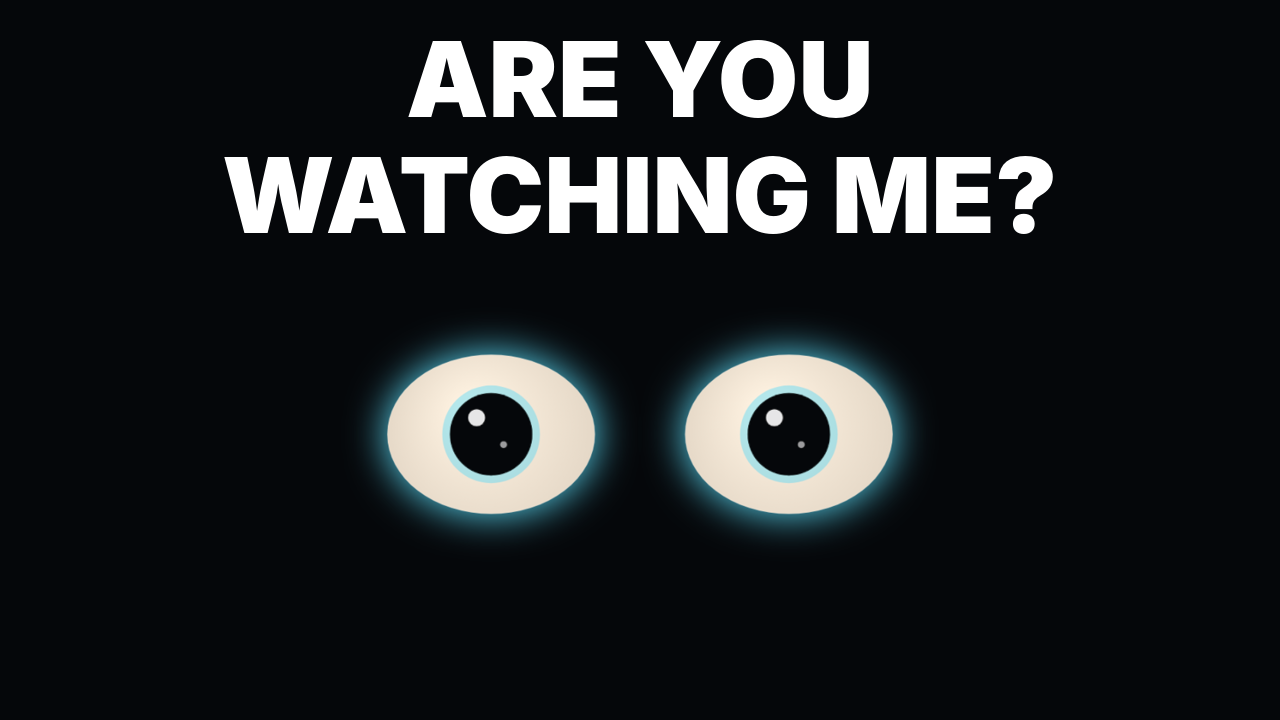
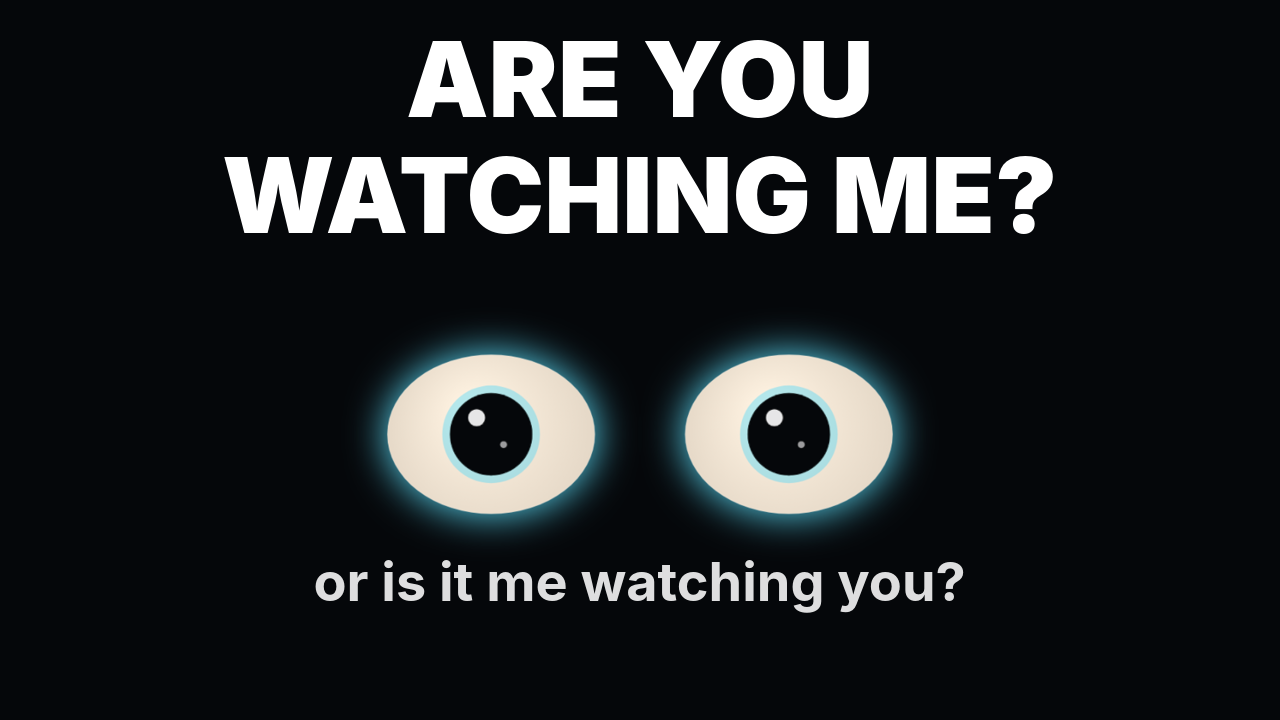
Dot film: second line on thumbnail 1, vertical thumbnail for the Short
Claude-Session: https://claude.ai/code/session_01D9G31rEphcSjh2oZPEPjty

Changed region(s): [[0.25, 0.7639, 0.75, 0.8556]]

diff --git a/marketing-assets/youtube/dot/README.md b/marketing-assets/youtube/dot/README.md
@@ -14,7 +14,8 @@ copies inside the bubbles; voice is Zelda (v3) with emotion; the end-card logo i
 |---|---|
 | `dot-film-1920x1080.mp4` | The film, 1:28, for YouTube |
 | `dot-short-1080x1920.mp4` | The Short, 0:47 (lines 1, 3, 5, 7, 10, 12), for YouTube Shorts, Reels, LinkedIn |
-| `thumb-1-eyes.png` | Dot's eyes on black under "ARE YOU WATCHING ME?" (matches the opening) |
+| `thumb-1-eyes.png` | Dot's eyes on black under "ARE YOU WATCHING ME?" with "or is it me watching you?" below the eyes (matches the opening) |
+| `thumb-short-1080x1920.png` | Vertical version for the Short (cover image for Shorts, Reels, TikTok, LinkedIn) |
 | `thumb-2-dot.png` | Close-up of Dot's sad eyes, "I'M DOT" |
 | `thumb-3-letgo.png` | Dot above the Send button, "YOU LET ME GO" |
 
